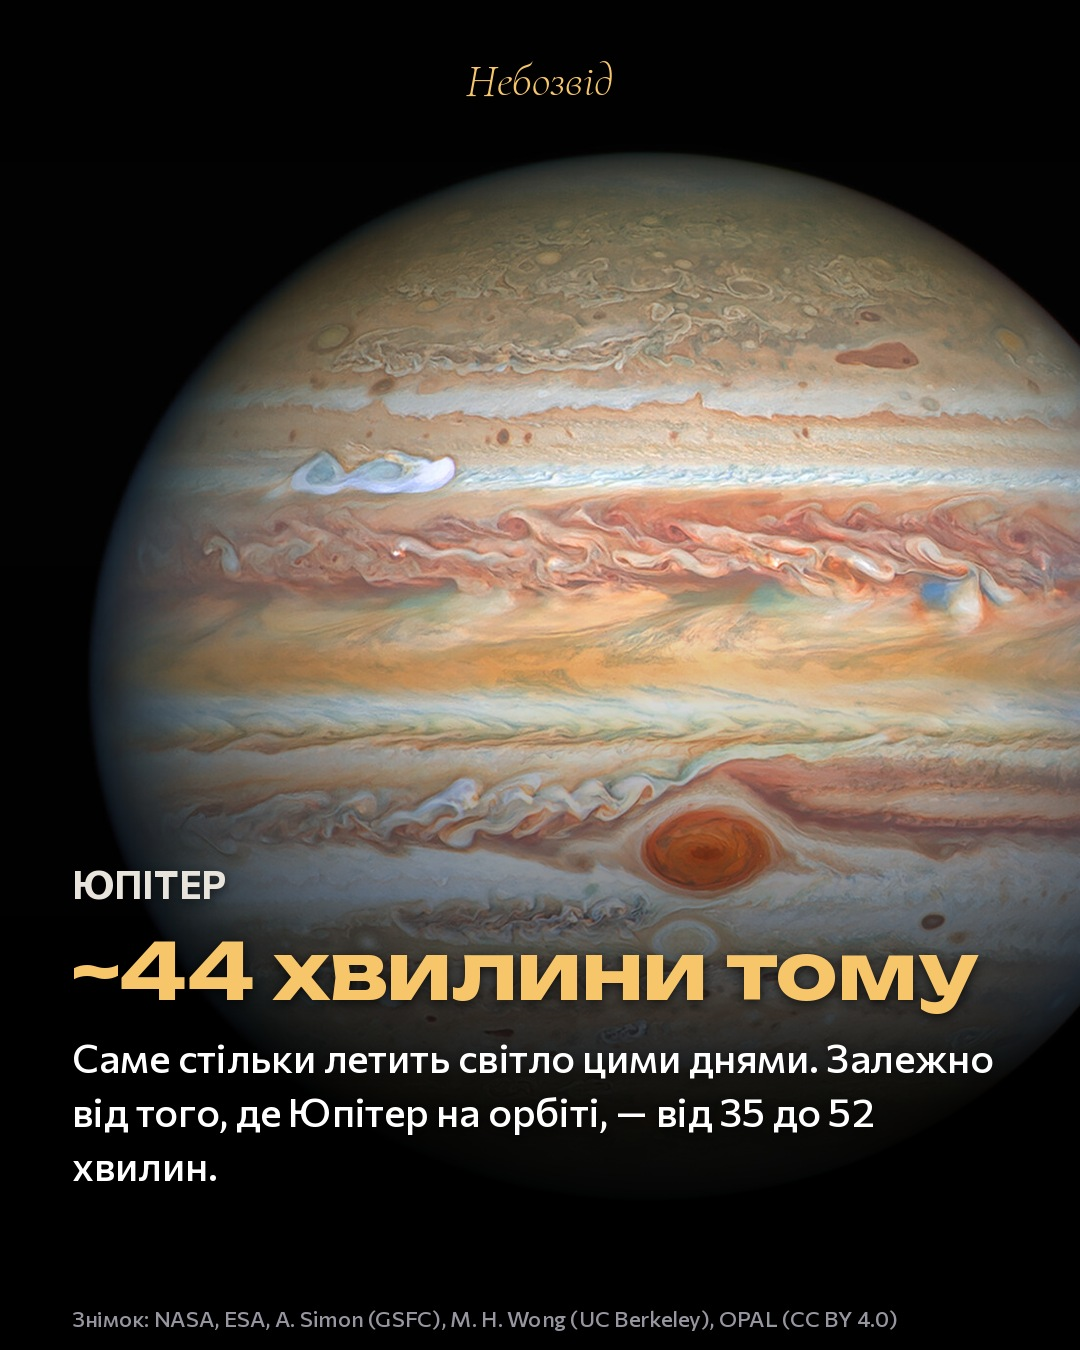
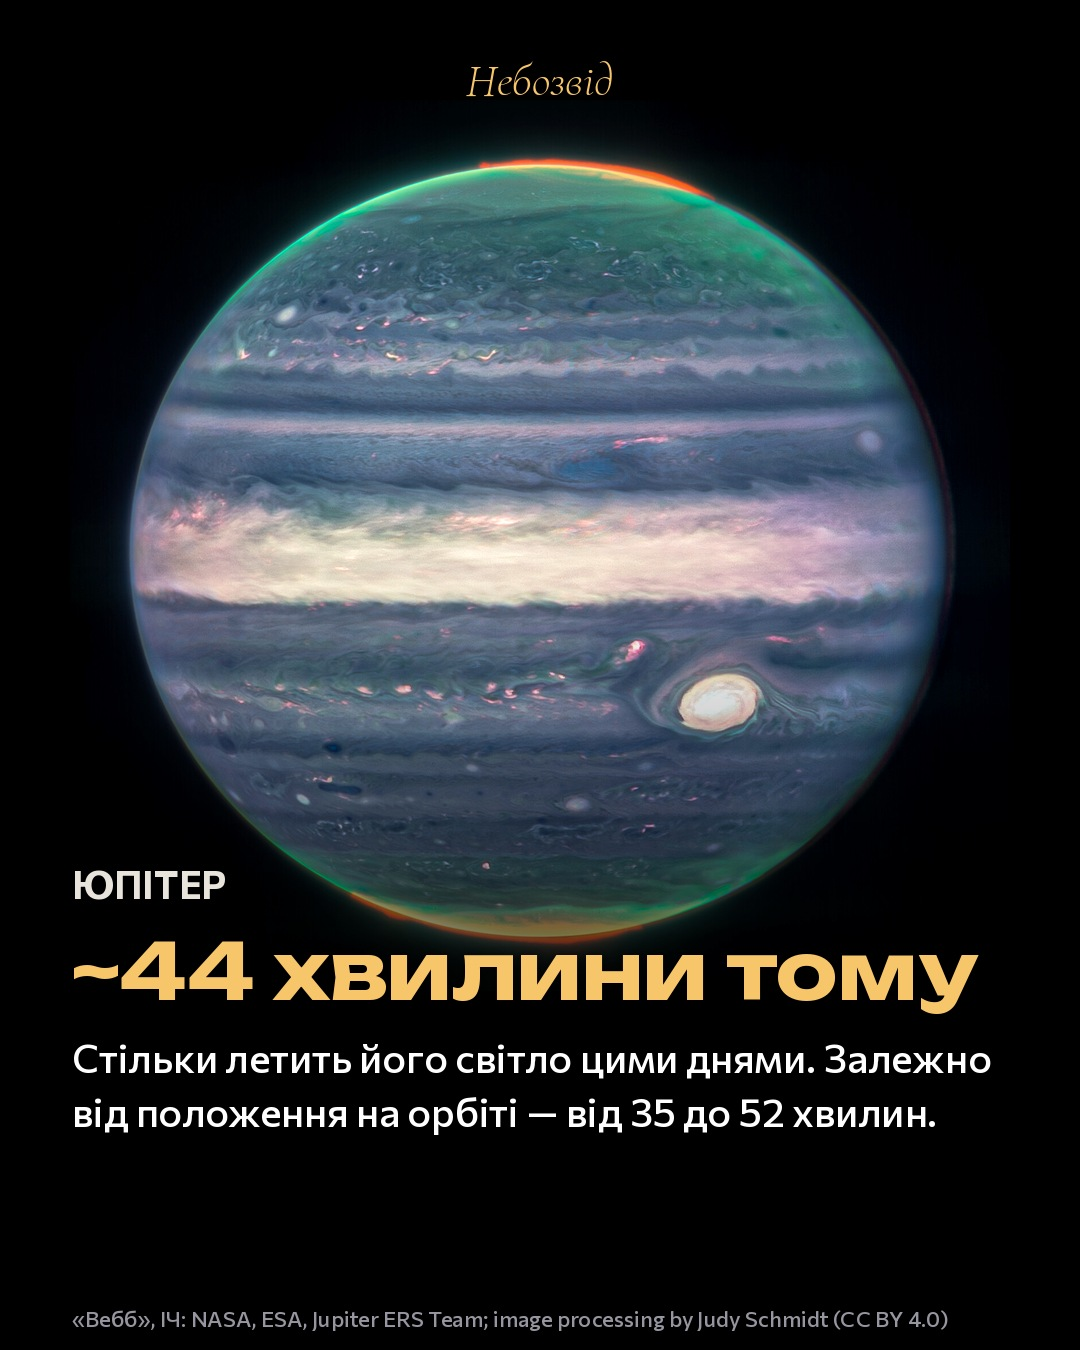
Carousel: Webb Jupiter with auroras
Claude-Session: https://claude.ai/code/session_01RfjZRMMabiYMYRSbuRXySD

diff --git a/videos/carousels/light_past/make.py b/videos/carousels/light_past/make.py
@@ -68,6 +68,12 @@ def sun_img():
     a = np.stack([np.clip(r * 1.05, 0, 1), g * 0.80, b * 0.45], -1)   # тепліший, ближче до оранжевого
     return Image.fromarray((a * 255).astype(np.uint8))
 
+def jup_img():
+    im = fit('jupiter_webb.jpg', 940, 545)
+    a = np.asarray(im).astype(np.float32) / 255
+    a = np.clip((a - 0.03) * 1.15, 0, 1)
+    return Image.fromarray((a * 255).astype(np.uint8))
+
 # 1 — обкладинка
 im = bg('milkyway.jpg', 0.5, 0.5, 1.7); d = ImageDraw.Draw(im); logo(im)
 y = 830
@@ -84,8 +90,8 @@ slide(2, bg('moon.jpg', 0.5, 0.40, 0.92), 'Місяць', '1,3 секунди т
       'Найближчий сусід. Навіть його світло трохи запізнюється.', 'Фото: Gregory H. Revera (CC BY-SA 3.0, Wikimedia Commons)')
 slide(3, bg(None, img=sun_img()), 'Сонце', '8 хвилин 20 секунд тому',
       'Якби Сонце зараз згасло, ми ще 8 хвилин бачили б його світло.', 'Знімок в ультрафіолеті: NASA/GSFC/SDO (AIA 171 Å)')
-slide(4, bg('jupiter.jpg', 0.5, 0.40, 1.0), 'Юпітер', '~44 хвилини тому',
-      'Саме стільки летить світло цими днями. Залежно від того, де Юпітер на орбіті, — від 35 до 52 хвилин.', 'Знімок: NASA, ESA, A. Simon (GSFC), M. H. Wong (UC Berkeley), OPAL (CC BY 4.0)')
+slide(4, bg(None, img=jup_img()), 'Юпітер', '~44 хвилини тому',
+      'Стільки летить його світло цими днями. Залежно від положення на орбіті — від 35 до 52 хвилин.', '«Вебб», ІЧ: NASA, ESA, Jupiter ERS Team; image processing by Judy Schmidt (CC BY 4.0)')
 slide(5, bg('pleiades.jpg', 0.5, 0.42, 1.0), 'Плеяди', '~440 років тому',
       'Це світло вирушило приблизно тоді, коли в Острозі друкували Острозьку Біблію (1581).', 'Знімок: NASA, ESA, AURA/Caltech, Palomar Observatory')
 slide(6, bg('orion.jpg', 0.55, 0.40, 1.0), 'Туманність Оріона', '~1 350 років тому',

diff --git a/videos/carousels/light_past/posts.md b/videos/carousels/light_past/posts.md
@@ -23,7 +23,7 @@
 - Чумацький Шлях: ESO/S. Brunier, CC BY 4.0 (eso0932a)
 - Місяць: Gregory H. Revera, CC BY-SA 3.0 (Wikimedia Commons, FullMoon2010.jpg)
 - Сонце: NASA/GSFC/SDO, AIA 171 Å (PIA26681), Public Domain; колір підсилено
-- Юпітер: NASA, ESA, A. Simon (GSFC), M. H. Wong (UC Berkeley), OPAL — heic2017a, CC BY 4.0
+- Юпітер: NASA, ESA, Jupiter ERS Team; image processing by Judy Schmidt (esawebb.org jupiter-auroras1), CC BY 4.0, повний підпис обов'язковий
 - Плеяди: NASA, ESA, AURA/Caltech, Palomar Observatory — Public Domain (Wikimedia Commons, Pleiades_large.jpg)
 - Туманність Оріона: NASA, ESA, M. Robberto (STScI/ESA), Hubble Orion Treasury Project — heic0601a, CC BY 4.0
 - Андромеда: Lviatour, CC BY-SA 4.0 (Wikimedia Commons)
